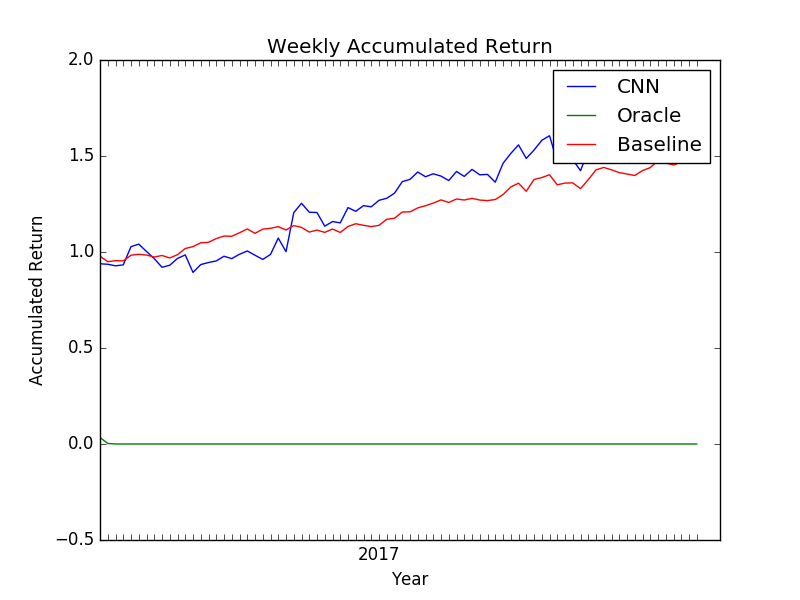
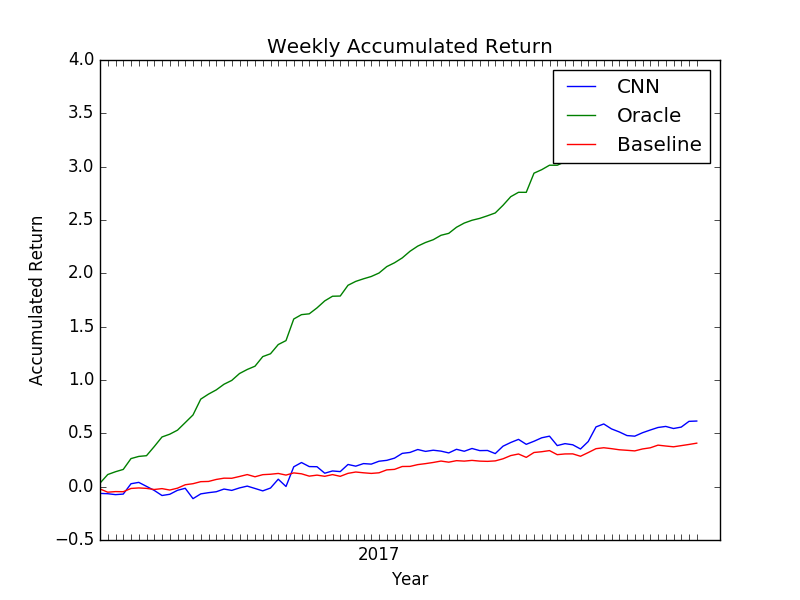
finish bs and ubs

diff --git a/modeltrial.py b/modeltrial.py
@@ -6,12 +6,7 @@ from models import dummyModel as dm
 from models import cnnModel as cm
 from models import rnnModel as rm
 from models import rnnModel2 as rm2
-<<<<<<< HEAD
-from utils import readin, yfReader, dataUtil as du
-from utils import plotAndEval as pe
-=======
 from utils import readin, yfReader, dataUtil as du, getPlots as gp
->>>>>>> 70a661a8e5ce4eea589d4240aee024d318716f9b
 import EigenPortfolio as ep
 import oracle as oc
 import logging
@@ -23,12 +18,7 @@ DATA_PATH_ALL = 'data/sp150'
 D = 10
 N = 10
 c = 0.0001
-<<<<<<< HEAD
-startFunding = 10000
-epochs = 400
-=======
 epochs = 20
->>>>>>> 70a661a8e5ce4eea589d4240aee024d318716f9b
 transCostParams = {
 	'c': np.array([ [c] for _ in range(D) ]),
 	'c0': c
@@ -201,85 +191,6 @@ def rnnModelTrainingTrial():
 				print(totalGR)
 				print()
 '''
-
-<<<<<<< HEAD
-def trainAndTestTrial():
-	dateSelected, trainPriceList, devPriceList, testPriceList = du.getTDTdata(DATA_PATH_ALL, frequency = 'week', getAll = True)
-	
-	baselineTime = range(10+(len(dateSelected)-10)/2+1,len(dateSelected)) 
-	baselineTransCostParams = np.zeros(D + 1) + c
-
-	# all the inputs!!
-	epochs = 5
-	L = 4
-	# define model
-
-	curModel = rm2.RnnModel(D, N, transCostParams, L = L)
-
-	curModel.get_model_info()
-
-	#quit()
-	with tf.Session() as sess:
-		sess.run(tf.global_variables_initializer())
-		for e in range(epochs):
-			logger.info('Beginning '+str(e)+'_th epoch')
-			logger.info('')
-			for i in range(len(trainPriceList)):
-				stockPrices = trainPriceList[i]
-				returnTensor, prevReturnMatrix, nextReturnMatrix = du.getInputs(stockPrices, N, L = 4)
-				allActions, growthRates = mu.train1epoch(returnTensor, prevReturnMatrix, nextReturnMatrix, curModel, sess)
-				totalGR = du.prod(growthRates)
-				
-				logger.info(str(i) + '_th group in training')
-				logger.info('total growth rate: '+ str(totalGR))
-				logger.info('')
-					
-		for i in range(len(devPriceList)):
-			stockPrices = devPriceList[i]
-			returnTensor, prevReturnMatrix, nextReturnMatrix = du.getInputs(stockPrices, N, L=4)
-			allActions, growthRates = mu.test1epoch(returnTensor, prevReturnMatrix, nextReturnMatrix, curModel, sess)
-			
-			baselineGrowthRates = 1.0 + ep.baseline(du.reduceDim(stockPrices), baselineTime, baselineTransCostParams)
-			growthRates = growthRates[-len(baselineGrowthRates):]
-			totalGR = du.prod(growthRates)
-			baselineTotalGR = du.prod(baselineGrowthRates)
-			logger.info(str(i) + '_th group in dev')
-			logger.info('model total growth rate in dev: '+ str(totalGR))
-			logger.info('baseline total growth rate: '+str(baselineTotalGR))
-			logger.info('')
-			
-
-
-		for i in range(len(testPriceList)):
-			stockPrices = testPriceList[i]
-			returnTensor, prevReturnMatrix, nextReturnMatrix = du.getInputs(stockPrices, N, L=4)
-			allActions, growthRates = mu.test1epoch(returnTensor, prevReturnMatrix, nextReturnMatrix, curModel, sess)
-			baselineGrowthRates = 1.0 + ep.baseline(du.reduceDim(stockPrices), baselineTime, baselineTransCostParams)
-			oracleGrowthRates = 1.0 + np.array(oc.solveOracle(du.reduceDim(stockPrices), startFunding, transCostParams['c'], transCostParams['c0']))
-			#bestStockGrowthRates = 1.0 + np.array(bs.bestStock(du.reduceDim(stockPrices)))
-			growthRates = growthRates[-len(baselineGrowthRates):]
-			oracleGrowthRates = oracleGrowthRates[-len(baselineGrowthRates):]
-			#bestStockGrowthRates = bestStockGrowthRates[-len(baselineGrowthRates):]
-			totalGR = du.prod(growthRates)
-			baselineTotalGR = du.prod(baselineGrowthRates)
-			oracleTotalGR = du.prod(oracleGrowthRates)
-			#bestStockTotalGR = du.prod(bestStockGrowthRates)
-			logger.info(str(i) + '_th group in test')
-			logger.info('model total growth rate in test: '+ str(totalGR))
-			logger.info('baseline total growth rate: '+str(baselineTotalGR))
-			logger.info('oracle total growth rate: '+str(oracleTotalGR))
-			#logger.info('bestStock total growth rate: '+str(bestStockTotalGR))
-			logger.info('')
-			# plot
-			plot_eval = pe.plotEval([dateSelected[i] for i in baselineTime], 2014)
-			plot_eval.addReturn(growthRates, 'Model')
-			plot_eval.addReturn(oracleGrowthRates, 'Oracle')
-			#plot_eval.addReturn(bestStockGrowthRates, 'BestStock')
-			plot_eval.addReturn(baselineGrowthRates, 'Baseline')
-			plot_eval.generatePlot()
-
-=======
->>>>>>> 70a661a8e5ce4eea589d4240aee024d318716f9b
 	
 	   	
 if __name__=='__main__':

diff --git a/modeltrial2.py b/modeltrial2.py
@@ -12,6 +12,8 @@ import logging
 import os
 from utils import plotAndEval as pe
 import oracle as oc
+import bestStock as bs
+import uniformBuySell as ubs
 
 DATA_PATH = 'data/sp10/'
 DATA_PATH_ALL = 'data/sp150'
@@ -107,7 +109,9 @@ def trainAndTestTrial():
         print(allActions[0])
 
         baselineGrowthRates = 1.0 + ep.baseline(stockPrice, TestTimeIndex, baselineTransCostParams)
-        oracleGrowthRates = oc.solveOracle(stockPrice, 10000, transCostParams['c'], transCostParams['c0'])
+        oracleGrowthRates = np.array(oc.solveOracle(stockPrice, 10000, transCostParams['c'], transCostParams['c0'])) + 1.0
+        bsGrowthRates = np.array(bs.bestStock(stockPrice)) + 1.0
+        ubsGrowthRates = np.array(ubs.ubs(stockPrice)) + 1.0
         growthRates = growthRates[-len(baselineGrowthRates):]
         totalGR = du.prod(growthRates)
         baselineTotalGR = du.prod(baselineGrowthRates)
@@ -115,6 +119,8 @@ def trainAndTestTrial():
         plotE.addReturn(baselineGrowthRates, 'Baseline')
         plotE.addReturn(growthRates, 'CNN')
         plotE.addReturn(oracleGrowthRates, 'Oracle')
+        plotE.addReturn(bsGrowthRates, 'BestStock')
+        plotE.addReturn(ubsGrowthRates,'Uniform Buy & Sell')
         plotE.generatePlot()
         logger.info('model total growth rate in testing data: '+ str(totalGR))
         logger.info('baseline total growth rate: '+str(baselineTotalGR))

diff --git a/utils/plotAndEval.py b/utils/plotAndEval.py
@@ -5,9 +5,9 @@ import numpy as np
 
 def accum(Re):
 		result = []
-		result.append(Re[0])
+		result.append(math.log(Re[0]))
 		for idx in xrange(1, len(Re)):
-			cur = result[-1] * Re[idx]
+			cur = result[-1] + math.log(Re[idx])
 			result.append(cur)
 		return result
 
@@ -15,11 +15,11 @@ def accum(Re):
 def totalReturn(Re):
 	result = 1
 	for re in Re:
-		result *= (1+re)		
+		result *= re		
 	return result
 
 def sharp_ratio(Re):
-	Re = np.array(Re)
+	Re = np.array(Re) -1 
 	return np.mean(Re)/np.std(Re)
 
 class plotEval:
@@ -66,7 +66,7 @@ class plotEval:
 		plt.savefig('results/Figures/Weekly_Re')
 		plt.show()
 
-		# plot accumulated return
+		# plot (log) accumulated return
 		legend_2 = []
 		for label in self.returns.keys():
 			accumReturn = accum(self.returns[label])
@@ -74,11 +74,11 @@ class plotEval:
 			legend_2.append(label)
 
 		plt.xticks(x, dateLabel)
-		plt.title('Weekly Accumulated Return')
+		plt.title('Weekly Accumulated Log Return')
 		plt.legend(legend_2)
 		plt.xlabel('Year')
-		plt.ylabel('Accumulated Return')
-		plt.savefig('results/Figures/Weekly_Re_Accum')
+		plt.ylabel('Accumulated Log Return')
+		plt.savefig('results/Figures/Weekly_Re_Accum_Log')
 		plt.show()
 
 	

diff --git a/bestStock.py b/bestStock.py
@@ -4,17 +4,17 @@ def bestStock(SP):
 	compNum = len(SP[0])
 
 	# Note that the last day doesn't have a bestStock return since we don't know prices after that
-	for i in xrange(len(SP)-1):
+	for timeStep in xrange(len(SP)-1):
 		P = [0 for i in xrange(compNum)]
 		bestReturn = -float('inf')
 		bestIdx = 0
 		for compIdx in xrange(compNum):
-			sReturn = (SP[i+1][compIdx] - SP[i][compIdx]) / SP[i][compIdx]
+			sReturn = (SP[timeStep+1][compIdx] - SP[timeStep][compIdx]) / SP[timeStep][compIdx]
 			if sReturn >= bestReturn:
 				bestReturn = sReturn
 				bestIdx = compIdx
 		P[bestIdx] = 1
 		result_P.append(P)
 		result_R.append(bestReturn)
-	#print result_P
 	return result_R
+

diff --git a/uniformBuySell.py b/uniformBuySell.py
@@ -1,7 +1,7 @@
 def ubs(SP):
 	result_R = []
 	compNum = len(SP[0])
-	P = [1/compNum for i in xrange(compNum)]
+	P = [1.0/compNum for i in xrange(compNum)]
 
 	# Note that the last day doesn't have a bestStock return since we don't know prices after that
 	for i in xrange(len(SP)-1):
